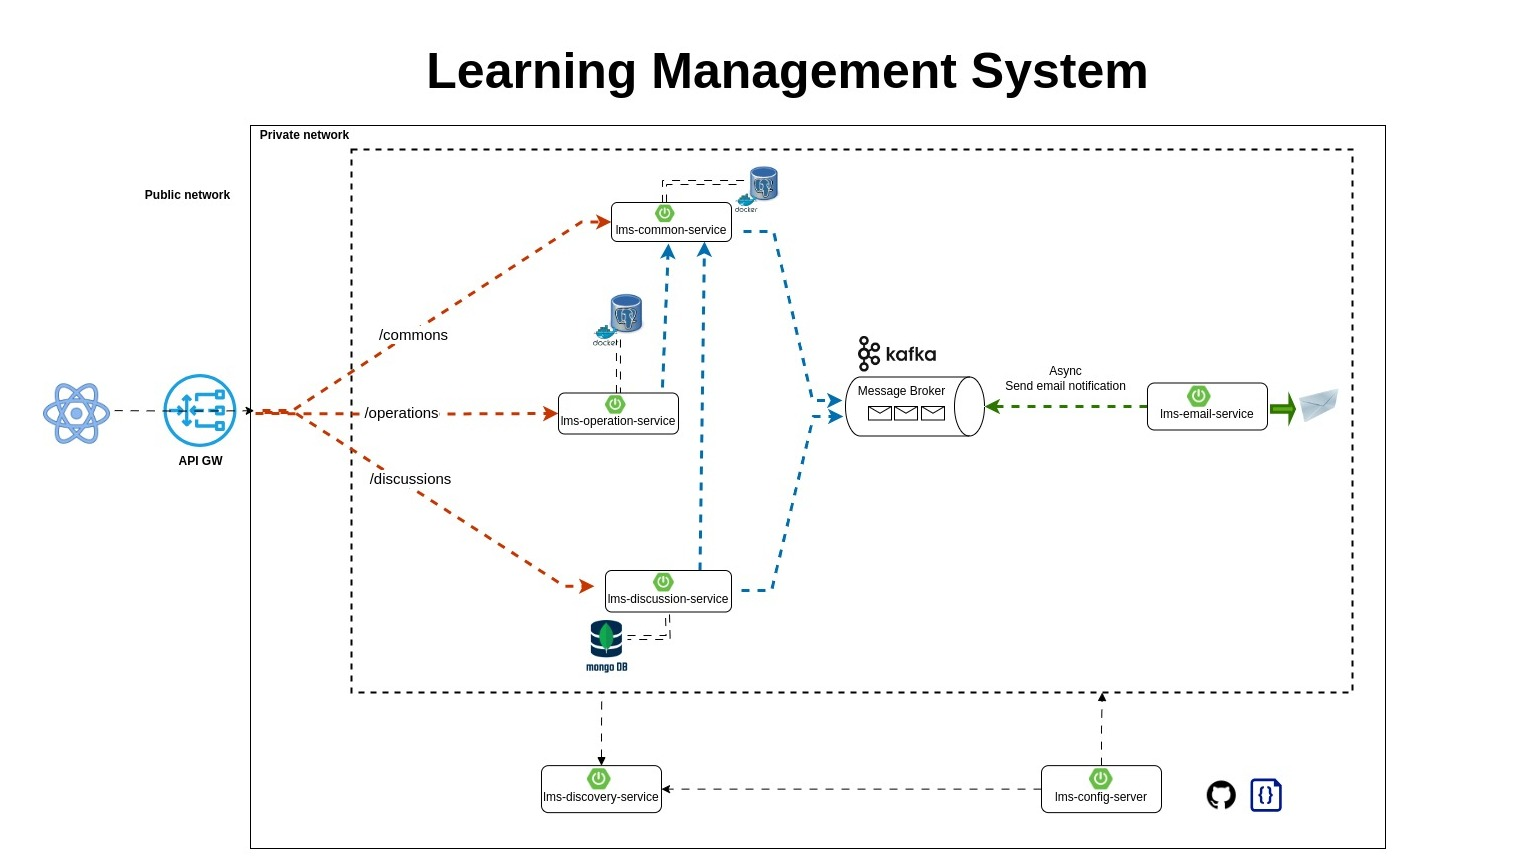
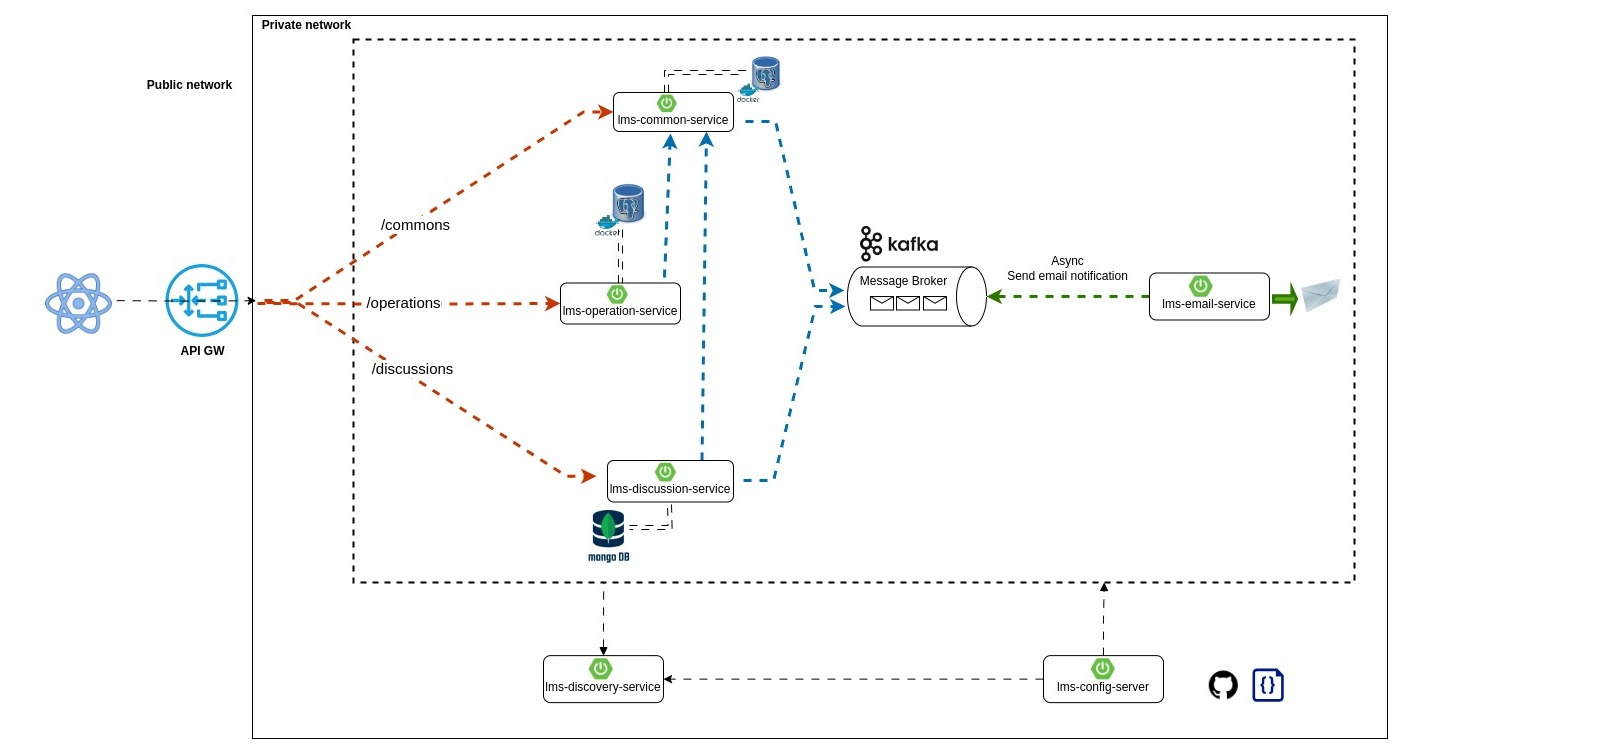
update diagram and README.md file

diff --git a/README.md b/README.md
@@ -1,0 +1,14 @@
+## Learning Management System (LMS)
+### Project Description:
+The Learning Management System (LMS) is an integrated platform designed to provide a seamless and interactive online learning experience for students, teachers, and administrators. It supports a wide range of educational activities, from content creation and distribution to assessment and analysis.
+### System Architecture
+![Microservice based architecture](./diagram/lms-architecture.jpg)
+The application is designed to use Domain Driven Design pattern with microservice architecture. The whole system is divided into multiple modules and each module is responsible for specific tasks. The interdependency will be maintained using FeignClient. The lms-gateway module is the entry point of the system and communicate with public network. JWT token based security is maintained in this module and the authenticated request will dispatch to internal network where all the other modules handle the request. A short brief of each of the modules are below. 
+#### Modules:
+1. <b> lms-config-server:</b> This module is used to externalize the configuration for all the individual modules.  
+2. <b> lms-discovery-service: </b> This module holds the information about all client-service applications. Every micro modules will register into the lms-discovery-service and this service will know all the client applications running on each port and IP address.
+3. <b> lms-domain: </b> This module is not work as a service rather this module will be shared across all the modules. It has domain object, Error object and other important objects that needs to be shared across all modules.
+4. <b> lms-common-service: </b>
+5. <b> lms-operation-service: </b>
+6. <b> lms-discussion-service: </b>
+7. <b> lms-gateway: </b>
